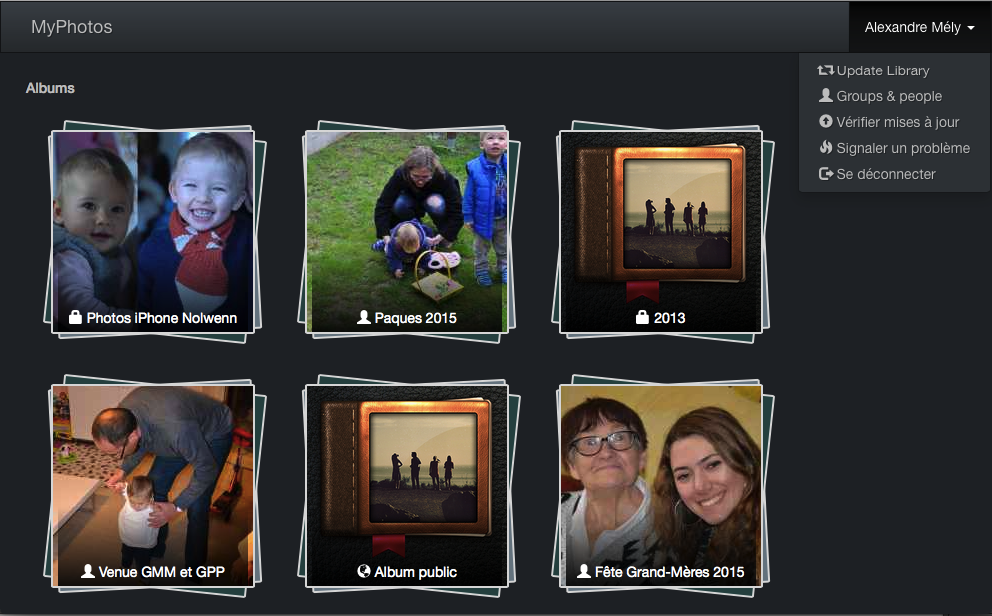
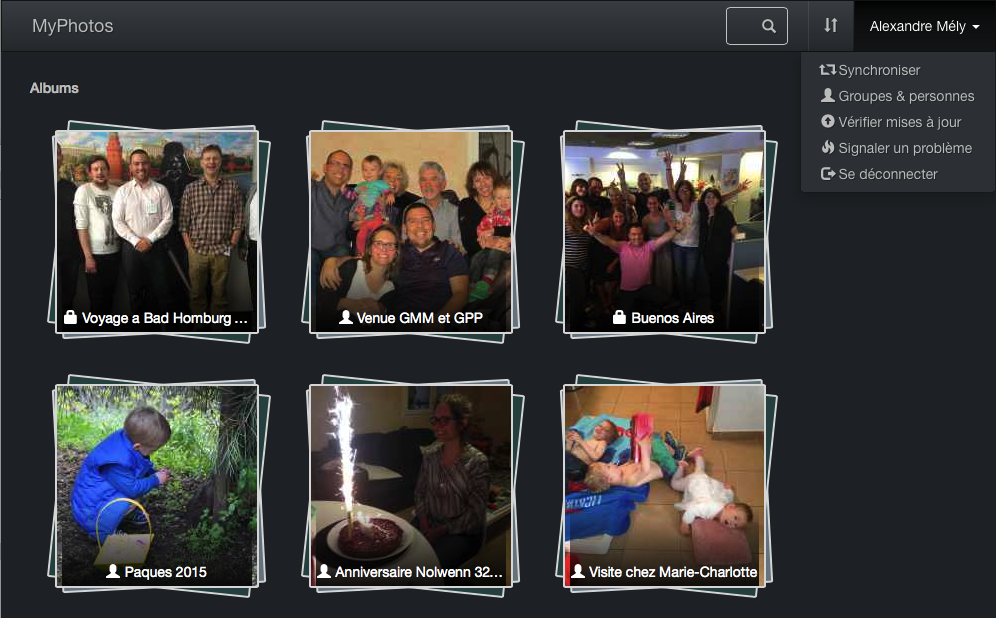
switch to filter hidden photos

diff --git a/js/my.js b/js/my.js
@@ -61,6 +61,14 @@ var gallery = new Ractive({
 				return found;
 			});
 		},
+		// Photos
+		showhidden: false, // don't show hidden photos by default
+		visiblephotos: function () {
+			var that = this;
+			return this.get('photos').filter (function (photo) {
+				return !photo.hidden || that.get ('showhidden');
+			});
+		},
 		// data
 		folder: {
 			name: false,
@@ -155,12 +163,17 @@ gallery.on ('view', function (event, photoid) {
 });
 gallery.on ('previous', function (event) {
 	this.add ('photoid', -1);
+	while (!this.get ('showhidden') && this.get('photos['+this.get('photoid')+'].hidden'))
+		this.add ('photoid', -1);
 	// cache previous image
 	//(new Image()).src = this.get ('photos['+(this.get('photoid')-1)+'].previewurl');
 });
 gallery.on ('next', function (event) {
 	this.add ('photoid', 1);
-	// cache next image
+	// go to next visible photo
+	while (!this.get ('showhidden') && this.get('photos['+this.get('photoid')+'].hidden'))
+		this.add ('photoid', 1);
+	// cache next image // TODO next visible image!
 	var src = this.get ('photos['+(this.get('photoid')+1)+'].previewurl');
 	my.debug ('preloading image', src);
 	(new Image()).src = src;
@@ -171,23 +184,22 @@ gallery.on ('close', function (event) {
 });
 gallery.on ('hide', function (event) {
 	var photoid = this.get ('photoid'),
-		hide = !this.get ('photos['+photoid+'].hidden');
+		photo = this.get ('photos')[photoid],
+		hide = !photo.hidden;
 	my.get ({
 		url: 'backend.php',
 		data: {
 			action: 'updateFolder',
 			dir: gallery.get ('folder.filepath'),
-			filename: this.get ('photos['+photoid+'].filename'),
+			filename: photo.filename,
 			hidden: hide
 		},
 		success: function () {
-			if (hide) {
-				gallery.set ('photos['+photoid+'].hidden', true);
+			gallery.set ('photos['+photoid+'].hidden', hide);
+			if (hide)
 				my.warn (i18n.t ('pic_hidden'));
-			} else {
-				gallery.set ('photos['+photoid+'].hidden', false);
+			else
 				my.success (i18n.t ('pic_visible'));
-			}
 		}
 	});
 });

diff --git a/index.html b/index.html
@@ -116,8 +116,16 @@
 							</ul>
 						</li>
 
+						<!-- Toggle hidden -->
+						<li class="navbar-form {{#if view !== 'album'}}hide{{/if}}">
+				            <label class="checkbox">
+				                <input type="checkbox" checked="{{showhidden}}">
+				                {{t('show_hidden')}}
+				            </label>
+					    </li>
+
 						<!-- Hide -->
-						<li class="{{#if !user.isadmin || view !== 'photo'}}hide{{/if}} {{#if photos[photoid].hidden}}active{{/if}}">
+						<li class="{{#if !user.isadmin || view !== 'photo'}}hide{{/if}} {{#if photofilter(photos)[photoid].hidden}}active{{/if}}">
 							<a class="addtooltip" data-i18n="[title]hide" on-click="hide">
 								<span class="glyphicon glyphicon-eye-close"></span>
 							</a>
@@ -346,7 +354,7 @@
 		</button>
 		{{#photos[photoid]}}
 			{{#if type == 'image'}}
-				<div class="view" style="background-image: url('{{previewurl}}');">
+				<div class="view {{#hidden}}private{{/}}" style="background-image: url('{{previewurl}}');">
 				</div>
 			{{elseif type == 'video'}}
 				<div class="view">
@@ -408,7 +416,7 @@
 		{{#if photos}}
 			<h5>{{t('photos')}}</h5>
 			{{#each photos}}
-			<div class="thumb {{#if hidden}}private{{/if}}" style="background-image: url('{{thumburl}}');">
+			<div class="thumb {{#hidden}}{{^showhidden}}hide{{/}} private{{/}}" style="background-image: url('{{thumburl}}');">
 				<a href="#{{folder.filepath}}" on-click="view:{{@index}}"></a>
 			</div>
 			{{/each}}

diff --git a/css/my.css b/css/my.css
@@ -31,6 +31,8 @@ a.editable { display: block; }
 a { cursor: pointer; } /* links with no href */
 .g-signin { margin: 6px; }
 
+.navbar-form .checkbox { margin-top: 8px; }
+
 tr.selected td { background-color: #694f37 !important;}
 
 input.error {
@@ -140,7 +142,7 @@ input.error {
 	background-position: center;
 }
 
-.thumb.private {
+.private {
 	opacity: 0.2;
 	filter: alpha(opacity=40); /* For IE8 and earlier */
 }

diff --git a/defines.php b/defines.php
@@ -33,5 +33,5 @@ define ('TASK_NB', 1); // nb of task to execute per page load
 
 // MyPhoto Update
 define ('GIT_CHECK', 'git fetch -q 2>&1 && git log HEAD..origin/master --oneline --format="%an: %s (%ar)"'); // command to show pending updates
-define ('GIT_PULL', 'git fetch --all && git reset --hard origin/master 2>&1'); // command to update local repository
+define ('GIT_PULL', 'git fetch --all 2>&1 && git reset --hard origin/master 2>&1'); // command to update local repository
 ?>

diff --git a/todo.md b/todo.md
@@ -13,5 +13,7 @@ It completes the existing ideas from the [Github issue list](https://github.com/
 - [ ] Reset library / album if for example image quality setting is changed
 - [ ] Optimize using dev tools (ex: minifiy..)
 - [ ] Show icon titles in mobile mode
+- [X] Switch to show/hide hidden photos in albums
+- [ ] Login as per Group to test visibility
 
 Click [here](https://github.com/alexylem/myphotos/issues/new) to submit a new feature request.
